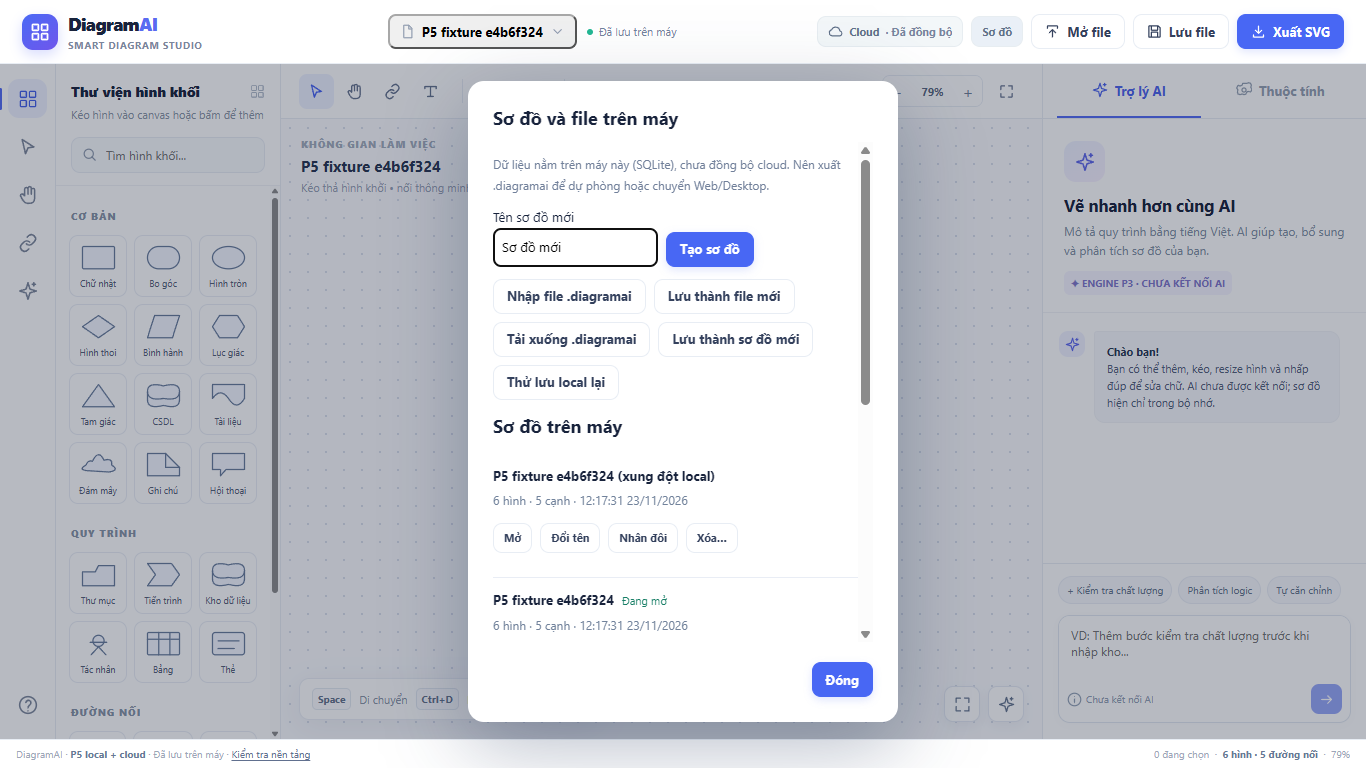
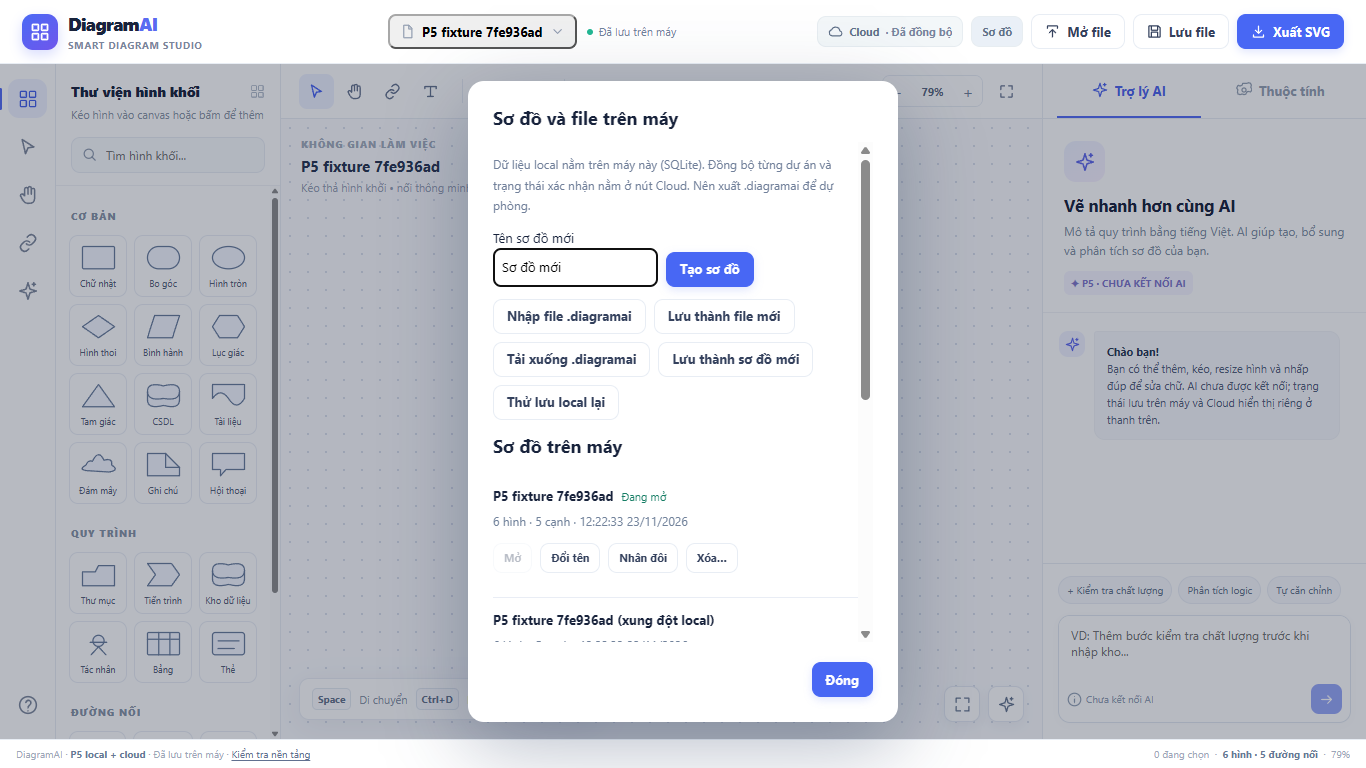
docs(p5): record production verification and backup restore evidence

diff --git a/docs/p5-status.md b/docs/p5-status.md
@@ -1,12 +1,12 @@
 # P5 — Đồng bộ Web ↔ Desktop không đăng nhập
 
-Trạng thái: **đang triển khai**, chưa nghiệm thu hoặc bật đồng bộ trên bản public. P4 đã được chủ dự án chốt. Không làm AI/P6 trong bước này.
+Trạng thái: **P5 đã triển khai, bật production/Pages và đạt kiểm thử tập trung; chờ chủ dự án nghiệm thu**. P4 đã được chốt. Không làm AI/P6 trong bước này.
 
 ## Phạm vi và cách kiểm thử đã chốt
 
 Theo yêu cầu mới của chủ dự án (2026-11-23), trong từng P chỉ chạy **test tính năng mới và chỗ nối với P trước**; phần cũ bị sửa trực tiếp thì kiểm tra đúng phần ảnh hưởng. Bộ hồi quy toàn dự án dành cho cuối P7. CI/build đã chuyển sang tập P5 mặc định; full regression chỉ qua lựa chọn manual `full_regression`, Desktop qua `test:desktop:full`.
 
-## Đã có trong working tree, chưa phát hành
+## Đã triển khai và kiểm chứng
 
 - Protocol/client/coordinator chung trong `packages/sync-core`: snapshot hash, CAS revision, outbox bất biến khi đang gửi, backoff có giới hạn, không báo synced trước khi ghi acknowledgement local thành công.
 - Backend private project, device token/recovery hash, mã ghép 10 ký tự / 5 phút / một lần, revoke, recovery, retention, global storage budget và atomic rate buckets. API mặc định `SYNC_ENABLED=false`; giữ nguyên health P0.
@@ -16,14 +16,17 @@ Theo yêu cầu mới của chủ dự án (2026-11-23), trong từng P chỉ ch
 - Rust: **2 sync tests + 1 DPAPI test PASS**. SQLite startup được serialize để tránh đua WAL/schema khi local và cloud cùng đọc. Token chỉ nằm trong file DPAPI per-user; SQLite giữ reference, không có plaintext fallback.
 - Web: **3/3 UI tests PASS** qua fixture API và Neon dev thật: đồng bộ hai chiều, offline/reload/outbox, giữ hai nhánh conflict, pairing một lần/revoke/recovery.
 - Desktop: **1/1 test bản cài thật PASS** sau sửa startup SQLite (38,4 giây testcase; 56 giây cả harness): Desktop SQLite/DPAPI ↔ Web IndexedDB, restart với WebView profile mới nhưng giữ SQLite/outbox, tiếp tục đồng bộ và giữ conflict local. Evidence: `test-results/desktop-p5/`, `playwright-report/desktop-p5/`.
[2 lines of base64/hex data omitted]
 - Dev managed Function đã deploy thành công tại origin hiện có `br-soft-surf-b3hws0gm-health`. Smoke API thật PASS (CORS/private create-pull/pair/CAS/idempotency/revoke/recovery, fixture đã xóa); **1/1 managed Web UI test PASS**, đồng bộ hai chiều giữa hai browser qua HTTPS Neon, gồm CSP/CORS thật.
 - Production managed API smoke cũng **PASS**, fixture đã xóa. Neon vẫn `free_v3`: project usage quan sát trước deploy khoảng 2.558 compute seconds và 646.882 bytes transfer; không thay billing, không thay compute settings.
-- **1/1 production native test PASS** (19,3 giây testcase; 26,5 giây harness), gồm installer cài/gỡ cách ly, Desktop ↔ Web qua HTTPS production, offline/restart/outbox và conflict. Screenshot/manifest/harness tại [`evidence/p5/`](evidence/p5/). Đã chỉnh các mô tả cũ “chỉ trong bộ nhớ/chưa đồng bộ” để không mâu thuẫn trạng thái local/Cloud; đang thu lại artifact cuối từ nguồn này.
-- Export schema ứng dụng độc lập đã tạo và mở lại/giải mã xác minh SHA-256 **PASS** bằng `scripts/backup-sync-database.mjs`, ngoài repo trong thư mục backup quản trị temp được phép, mã hóa DPAPI CurrentUser. Export chụp lúc 0 project production sau cleanup; không phải dump toàn DB hay test restore Postgres. Chưa có lịch backup tự động.
+- **1/1 production native test PASS trên artifact cuối** (21,3 giây testcase; 29,5 giây harness), gồm installer cài/gỡ cách ly, Desktop ↔ Web qua HTTPS production, offline/restart/outbox và conflict. Screenshot/manifest/harness tại [`evidence/p5/`](evidence/p5/). Đã chỉnh các mô tả cũ “chỉ trong bộ nhớ/chưa đồng bộ” để không mâu thuẫn trạng thái local/Cloud.
+- Export schema ứng dụng độc lập đã tạo và mở lại/giải mã xác minh SHA-256 **PASS** bằng `scripts/backup-sync-database.mjs`, ngoài repo trong thư mục backup quản trị temp được phép, mã hóa DPAPI CurrentUser. **Restore test PASS** bằng `scripts/verify-sync-backup.mjs`: tạo schema cách ly trên dev, apply migrations đáng tin cậy, nạp lại mọi bảng với constraints, kiểm tra counts rồi rollback toàn bộ. Export chụp lúc 0 project production sau cleanup nên không chứng minh phục hồi sơ đồ người dùng có dữ liệu; không phải dump toàn DB. Chưa có lịch backup tự động.
+- Implementation đã push **`57820dd`**. CI focused [45117072302](https://github.com/tux1cm/DiagramAI/actions/runs/45117072302) và Pages [45117079005](https://github.com/tux1cm/DiagramAI/actions/runs/45117079005) **SUCCESS**, không chạy full regression P0–P4.
+- **1/1 live Pages P5 test PASS** (19,5 giây testcase): hai browser dùng URL public thật, Web → Neon production → Web → sửa ngược lại; fixture đã xóa.
 
-## Còn trước khi bật public/chốt P5
+## Giới hạn và bước nghiệm thu
 
-- Xác minh bản cài cuối qua production managed API sau backup/deploy; không chạy lại toàn bộ P0–P4. Cấu hình env Neon CLI đã sửa thành chuỗi có kiểm tra bắt buộc.
-- Build bản cuối production API, test đúng luồng P5 trên installer/Pages thật và xác minh CI/Pages. Backup độc lập định kỳ chưa tự động hóa (máy build không có `pg_dump`); hướng dẫn vận hành trong `p5-usage.md`.
-- Cập nhật thông báo P4/P5, tài liệu và evidence; không commit tokens, mã ghép/khôi phục thật, DB URL hay snapshot cá nhân.
+- Chủ dự án thử: Desktop bật Cloud → sao lưu mã khôi phục → ghép Web → sửa hai chiều. Không tự chuyển P6 trước nghiệm thu.
+- Chưa có lịch backup độc lập tự động hoặc dump toàn DB (máy build không có `pg_dump`); đã có snapshot, export ứng dụng mã hóa và dev restore test. Backup export hiện ở thư mục temp quản trị, cần được chủ máy lưu sang kho bền vững. Hướng dẫn: [`p5-usage.md`](p5-usage.md).
+- Không phải cộng tác realtime/CRDT; polling khi app visible, cần kết nối để nhận server ACK. File backup và local saving vẫn độc lập. Không hứa recovery khi mất toàn bộ token và mã khôi phục.
+- Full regression toàn dự án để cuối P7 theo yêu cầu; chỉ các test mới/điểm nối P4→P5 đã chạy. Không commit secrets hoặc sơ đồ cá nhân.

diff --git a/docs/p5-usage.md b/docs/p5-usage.md
@@ -31,5 +31,6 @@ App kiểm tra cloud khoảng 15 giây khi đang mở/visible, khi focus hoặc 
 - API `/v1/health` giữ nguyên. Đồng bộ chỉ bật khi server có secret và `SYNC_ENABLED=true`. Secrets không vào Web bundle.
 - Backup trước migration production P5: Neon snapshot `snap-patient-glitter-b3fzsbss`. Không chạy down migration trên dữ liệu thật khi chưa sao lưu/xác định backend tương thích. Down migrations chạy ngược thứ tự 002 → 001, là thao tác quản trị phá hủy dữ liệu sync, không phải nút undo người dùng.
 - Vận hành tiếp: kiểm tra usage Neon và storage budget định kỳ; tạo backup trước migration, đồng thời lên lịch `pg_dump --format=custom` bằng kết nối quản trị từ biến môi trường, mã hóa/lưu ngoài Neon, kiểm tra restore trên nhánh dev. Snapshot nhà cung cấp không thay thế backup độc lập định kỳ. Máy build hiện chưa có `pg_dump`; chưa cấu hình lịch backup tự động.
-- Export độc lập dữ liệu schema ứng dụng bằng `node scripts/backup-sync-database.mjs blue-mode-25353507 br-noisy-waterfall-b37wduo3`. File được mã hóa **DPAPI CurrentUser** ngoài repo tại `%LOCALAPPDATA%/Temp/opencode/diagramai-backups/`, gồm dữ liệu `diagramai_sync` + up migrations; script mở lại/giải mã và xác minh SHA-256. Đây không phải dump toàn DB hoặc bằng chứng restore vào Postgres. Chỉ tài khoản Windows hiện tại giải mã được; cần chuyển bản dự phòng vào kho quản trị bền vững, không xóa thư mục temp trước khi làm việc đó. Không tự upload backup hoặc keys.
+- Export độc lập dữ liệu schema ứng dụng bằng `node scripts/backup-sync-database.mjs blue-mode-25353507 br-noisy-waterfall-b37wduo3`. File được mã hóa **DPAPI CurrentUser** ngoài repo tại `%LOCALAPPDATA%/Temp/opencode/diagramai-backups/`, gồm dữ liệu `diagramai_sync` + up migrations; script mở lại/giải mã và xác minh SHA-256. Đây không phải dump toàn DB. Chỉ tài khoản Windows hiện tại giải mã được; cần chuyển bản dự phòng vào kho quản trị bền vững, không xóa thư mục temp trước khi làm việc đó. Không tự upload backup hoặc keys.
+- Kiểm tra restore an toàn: `node scripts/verify-sync-backup.mjs <file.json.dpapi> blue-mode-25353507 br-soft-surf-b3hws0gm`. Script từ chối production; tạo schema dev ngẫu nhiên trong transaction, đối chiếu migrations với nguồn tin cậy, nạp mọi bảng theo constraints/kiểm tra counts rồi rollback, không thay dữ liệu hiện có. Không tự restore đè dữ liệu production.
 - Chỉ test P5 và điểm nối P4→P5 trong giai đoạn này. Full regression để cuối P7, không tự bắt đầu P6.
